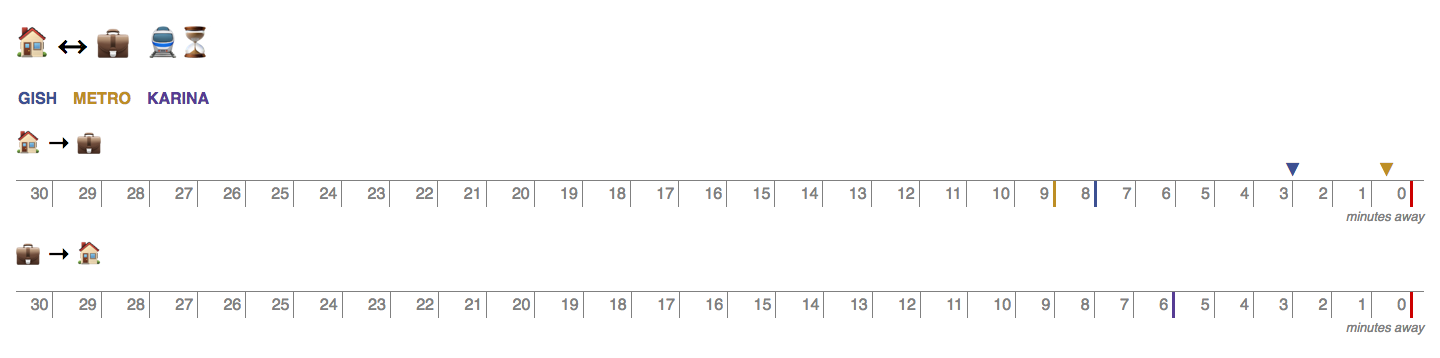
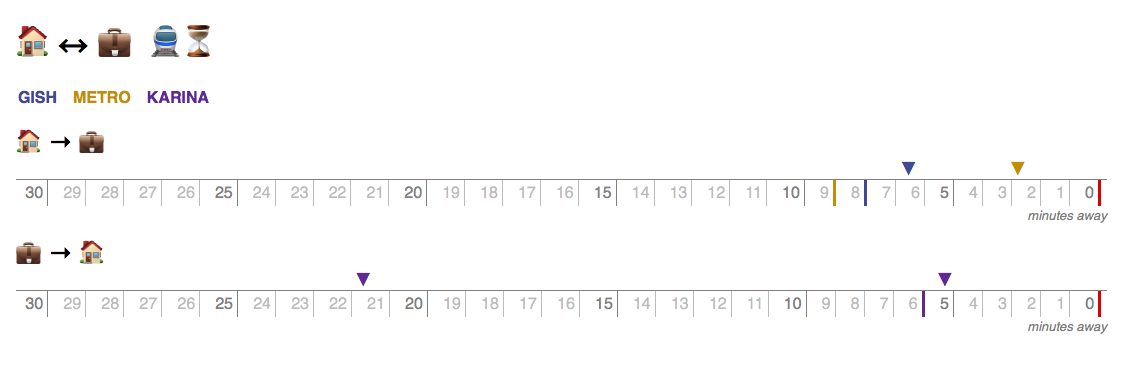
deemphasize minor ticks

diff --git a/src/App.css b/src/App.css
@@ -36,8 +36,8 @@ figure {
   display: flex;
   justify-content: space-around;
   cursor: default;
-  color: gray;
   border-top: 1px solid gray;
+  color: gray;
 }
 
 .ticker::after {
@@ -50,8 +50,14 @@ figure {
 }
 
 .tick {
-  border-right: 1px solid gray;
+  border-right: 1px solid #bbb;
   padding: 0.25em;
+  color: #bbb;
+}
+
+.tick.multiple-5 {
+  border-color: gray;
+  color: gray;
 }
 
 .tick:last-child {
